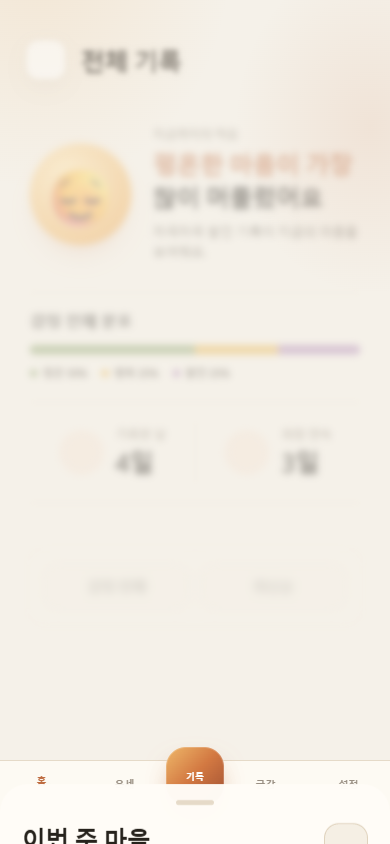
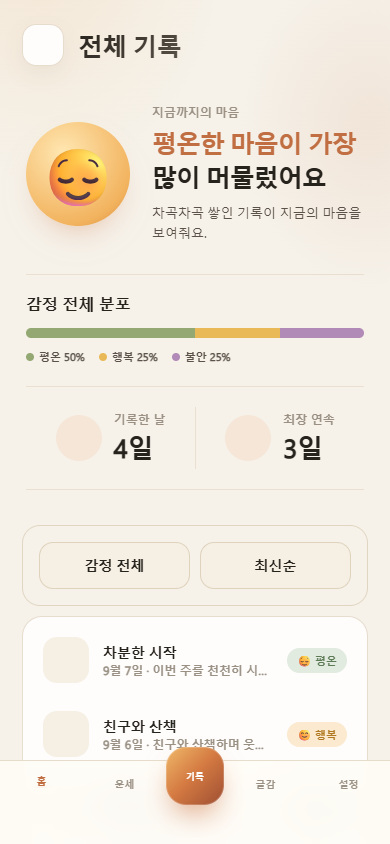
Stabilize prompt refresh animations and weekly stats sheet

diff --git a/prompt-animations.js b/prompt-animations.js
@@ -1,155 +1,69 @@
-/**
- * Prompt refresh motion — react-bits FadeContent + BlurText patterns (vanilla WAAPI).
- */
-
+/** Refresh recommendations while keeping the unchanged analysis text in place. */
 import { getAnimations } from "./animations.js";
 
 const PROMPT_PARTS = ".match, .prompt-emoji, h3, p";
 const EASE_OUT = "cubic-bezier(0.4, 0, 0.2, 1)";
 const EASE_SPRING = "cubic-bezier(0.22, 1, 0.36, 1)";
 
-function promptAnim() {
-  return getAnimations().promptRefresh || {};
-}
-
-function prefersReducedMotion() {
-  return window.matchMedia("(prefers-reduced-motion: reduce)").matches;
-}
-
-function runAnim(el, keyframes, options) {
-  if (!el || prefersReducedMotion()) return Promise.resolve();
-  const anim = el.animate(keyframes, options);
-  return anim.finished.catch(() => {});
-}
-
-function animatePromptParts(parts, keyframes, baseDelay, stagger) {
-  const cfg = promptAnim();
-  const isExit = keyframes.length === 2 && keyframes[1].opacity === 0;
-  return Promise.all(
-    [...parts].map((el, i) =>
-      runAnim(el, keyframes, {
-        duration: isExit ? (cfg.exitDurationMs ?? 340) : (cfg.enterDurationMs ?? 520),
-        delay: baseDelay + i * stagger,
-        easing: isExit ? EASE_OUT : EASE_SPRING,
-        fill: "forwards",
-      })
-    )
-  );
-}
-
-/**
- * Fade out (blur + slide up) → update content → fade in (blur resolve + stagger).
- */
 export async function animatePromptRefresh(updateContent) {
-  const cfg = promptAnim();
+  const cfg = getAnimations().promptRefresh || {};
   const cards = [...document.querySelectorAll(".prompt-slot")];
-  const meta = document.getElementById("prompt-meta");
   const refreshBtn = document.getElementById("prompt-refresh-btn");
-  const blurExit = cfg.blurExitPx ?? 10;
-  const blurMetaExit = cfg.blurMetaExitPx ?? 6;
-  const blurEnter = cfg.blurEnterPx ?? 10;
-  const blurEnterMid = cfg.blurEnterMidPx ?? 4;
-  const blurMetaEnter = cfg.blurMetaEnterPx ?? 8;
-  const tyExit = cfg.translateExitPx ?? 14;
-  const tyMetaExit = cfg.translateMetaExitPx ?? 6;
-  const tyEnter = cfg.translateEnterPx ?? 18;
-  const tyMetaEnter = cfg.translateMetaEnterPx ?? 10;
+  const animations = [];
+  const savedHeights = cards.map(card => card.style.minHeight);
+  const reducedMotion = window.matchMedia("(prefers-reduced-motion: reduce)").matches;
 
-  if (prefersReducedMotion()) {
-    updateContent();
-    return;
-  }
-
-  if (refreshBtn) {
-    refreshBtn.classList.add("is-refreshing");
-    refreshBtn.disabled = true;
-  }
-
-  cards.forEach((card) => card.classList.add("prompt-animating"));
-
-  await Promise.all(
-    cards.map((card, cardIndex) => {
-      const parts = card.querySelectorAll(PROMPT_PARTS);
-      return animatePromptParts(
-        parts,
-        [
-          { opacity: 1, filter: "blur(0px)", transform: "translateY(0) scale(1)" },
-          { opacity: 0, filter: `blur(${blurExit}px)`, transform: `translateY(-${tyExit}px) scale(0.97)` },
-        ],
-        cardIndex * (cfg.cardStaggerMs ?? 55),
-        cfg.partStaggerMs ?? 35
-      );
-    })
-  );
-
-  if (meta) {
-    await runAnim(
-      meta,
-      [
-        { opacity: 1, filter: "blur(0px)", transform: "translateY(0)" },
-        { opacity: 0, filter: `blur(${blurMetaExit}px)`, transform: `translateY(-${tyMetaExit}px)` },
-      ],
-      { duration: cfg.metaExitDurationMs ?? 220, easing: EASE_OUT, fill: "forwards" }
-    );
-  }
-
-  updateContent();
-
-  cards.forEach((card) => {
-    const parts = card.querySelectorAll(PROMPT_PARTS);
-    parts.forEach((el) => {
-      el.style.opacity = "0";
-      el.style.filter = `blur(${blurEnter}px)`;
-      el.style.transform = `translateY(${tyEnter}px)`;
-    });
-  });
-
-  if (meta) {
-    meta.style.opacity = "0";
-    meta.style.filter = `blur(${blurMetaEnter}px)`;
-    meta.style.transform = `translateY(${tyMetaEnter}px)`;
-  }
-
-  await Promise.all(
-    cards.map((card, cardIndex) => {
-      const parts = card.querySelectorAll(PROMPT_PARTS);
-      return animatePromptParts(
-        parts,
-        [
-          { opacity: 0, filter: `blur(${blurEnter}px)`, transform: `translateY(${tyEnter}px) scale(0.98)` },
-          { opacity: 0.55, filter: `blur(${blurEnterMid}px)`, transform: `translateY(6px) scale(0.99)` },
-          { opacity: 1, filter: "blur(0px)", transform: "translateY(0) scale(1)" },
-        ],
-        cardIndex * (cfg.cardEnterDelayMs ?? 90),
-        cfg.cardEnterPartStaggerMs ?? 45
-      ).then(() => {
-        parts.forEach((el) => {
-          el.style.opacity = "";
-          el.style.filter = "";
-          el.style.transform = "";
-        });
+  const animateParts = (keyframes, entering) => Promise.all(cards.flatMap((card, cardIndex) =>
+    [...card.querySelectorAll(PROMPT_PARTS)].map((element, partIndex) => {
+      const animation = element.animate(keyframes, {
+        duration: entering ? (cfg.enterDurationMs ?? 520) : (cfg.exitDurationMs ?? 340),
+        delay: entering
+          ? cardIndex * (cfg.cardEnterDelayMs ?? 90) + partIndex * (cfg.cardEnterPartStaggerMs ?? 45)
+          : cardIndex * (cfg.cardStaggerMs ?? 55) + partIndex * (cfg.partStaggerMs ?? 35),
+        easing: entering ? EASE_SPRING : EASE_OUT,
+        // Hold the first frame during stagger delays and the final frame until cleanup.
+        fill: "both",
       });
+      animations.push(animation);
+      return animation.finished.catch(() => {});
     })
-  );
-
-  if (meta) {
-    await runAnim(
-      meta,
-      [
-        { opacity: 0, filter: `blur(${blurMetaEnter}px)`, transform: `translateY(${tyMetaEnter}px)` },
-        { opacity: 1, filter: "blur(0px)", transform: "translateY(0)" },
-      ],
-      { duration: cfg.metaEnterDurationMs ?? 420, easing: EASE_SPRING, fill: "forwards" }
-    );
-    meta.style.opacity = "";
-    meta.style.filter = "";
-    meta.style.transform = "";
-  }
-
-  cards.forEach((card) => card.classList.remove("prompt-animating"));
+  ));
 
   if (refreshBtn) {
-    refreshBtn.classList.remove("is-refreshing");
-    refreshBtn.disabled = false;
+    refreshBtn.disabled = true;
+    refreshBtn.classList.add("is-refreshing");
+  }
+  try {
+    if (reducedMotion) {
+      updateContent();
+      return;
+    }
+    cards.forEach(card => {
+      card.style.minHeight = `${card.getBoundingClientRect().height}px`;
+      card.classList.add("prompt-animating");
+    });
+    await animateParts([
+      { opacity: 1, filter: "blur(0px)", transform: "translateY(0) scale(1)" },
+      { opacity: 0, filter: `blur(${cfg.blurExitPx ?? 10}px)`, transform: `translateY(-${cfg.translateExitPx ?? 14}px) scale(0.97)` },
+    ], false);
+
+    updateContent();
+
+    await animateParts([
+      { opacity: 0, filter: `blur(${cfg.blurEnterPx ?? 10}px)`, transform: `translateY(${cfg.translateEnterPx ?? 18}px) scale(0.98)` },
+      { opacity: 0.55, filter: `blur(${cfg.blurEnterMidPx ?? 4}px)`, transform: "translateY(6px) scale(0.99)" },
+      { opacity: 1, filter: "blur(0px)", transform: "translateY(0) scale(1)" },
+    ], true);
+  } finally {
+    // Release only animations owned by this refresh, including on a rendering failure.
+    animations.forEach(animation => animation.cancel());
+    cards.forEach((card, index) => {
+      card.style.minHeight = savedHeights[index];
+      card.classList.remove("prompt-animating");
+    });
+    if (refreshBtn) {
+      refreshBtn.disabled = false;
+      refreshBtn.classList.remove("is-refreshing");
+    }
   }
 }

diff --git a/tests/browser/home-stats.spec.ts b/tests/browser/home-stats.spec.ts
@@ -69,6 +69,39 @@ async function setup(page: Page, fixture = buildRecords()) {
   await expect(page.locator("#splash-root")).toHaveCount(0, { timeout: 5000 });
 }
 
+test("prompt refresh keeps analysis steady and releases finished animations", async ({ page }) => {
+  await page.setViewportSize({ width: 390, height: 844 });
+  await setup(page);
+  await page.locator('.bottom-nav [data-page="prompts"]').click();
+  await page.locator('#page-prompts').evaluate(async element => {
+    await Promise.all(element.getAnimations({subtree:true}).map(animation => animation.finished.catch(() => {})));
+  });
+  const meta = page.locator('#prompt-meta');
+  const before = await meta.textContent();
+  const refresh = page.locator('#prompt-refresh-btn');
+  await refresh.click();
+  await expect(refresh).toBeDisabled();
+  const samples = await meta.evaluate(async element => {
+    const samples = [];
+    for (let i = 0; i < 25; i++) {
+      const style = getComputedStyle(element);
+      samples.push({ opacity: Number(style.opacity), filter: style.filter, top: element.getBoundingClientRect().top });
+      await new Promise(resolve => setTimeout(resolve, 100));
+    }
+    return samples;
+  });
+  console.log('Prompt analysis motion', JSON.stringify({minOpacity:Math.min(...samples.map(s=>s.opacity)), maxDrift:Math.max(...samples.map(s=>s.top))-Math.min(...samples.map(s=>s.top))}));
+  await expect(refresh).toBeEnabled();
+  await expect(meta).toHaveText(before!);
+  expect(Math.min(...samples.map(s => s.opacity))).toBe(1);
+  expect(Math.max(...samples.map(s => s.top)) - Math.min(...samples.map(s => s.top))).toBeLessThan(1);
+  for (let i = 0; i < 2; i++) {
+    await refresh.click();
+    await expect(refresh).toBeEnabled();
+  }
+  expect(await page.locator('.prompt-slot').evaluateAll(cards => cards.reduce((sum, card) => sum + card.getAnimations({subtree:true}).filter(a=>a instanceof Animation && a.effect instanceof KeyframeEffect && !('animationName' in a)).length, 0))).toBe(0);
+});
+
 test("weekly sheet and all-record statistics preserve the complete home flow", async ({ page }) => {
   await page.setViewportSize({ width: 390, height: 844 });
   const reference = new Date();
@@ -86,6 +119,12 @@ test("weekly sheet and all-record statistics preserve the complete home flow", a
   await expect(page.locator("#week-stats-days-written")).toHaveText(`${currentWeekDays}일`);
   await expect(page.locator("#week-stats-next")).toBeDisabled();
   await expect(page.locator("#week-stats-records")).toBeVisible();
+  await expect.poll(() => sheet.evaluate(element => Math.abs(new DOMMatrixReadOnly(getComputedStyle(element).transform).m42))).toBe(0);
+  const corners = await sheet.evaluate(element => {
+    const style = getComputedStyle(element);
+    return [style.borderTopLeftRadius, style.borderTopRightRadius, style.borderBottomLeftRadius, style.borderBottomRightRadius];
+  });
+  expect(corners).toEqual(['28px', '28px', '28px', '28px']);
   const actionsBox = await page.locator(".week-stats-actions").boundingBox();
   const navBox = await page.locator(".bottom-nav").boundingBox();
   expect(actionsBox!.y + actionsBox!.height).toBeLessThanOrEqual(navBox!.y);

diff --git a/app.js b/app.js
@@ -1420,7 +1420,8 @@ function renderPromptRecommendations() {
     card.querySelector("p").textContent = prompt.desc;
   });
   const meta = document.getElementById("prompt-meta");
-  if (meta) meta.innerHTML = formatPromptMeta(analysis);
+  const metaHtml = formatPromptMeta(analysis);
+  if (meta && meta.innerHTML !== metaHtml) meta.innerHTML = metaHtml;
   const homePrompt = document.getElementById("home-prompt-teaser");
   if (homePrompt && picks[0]) {
     const top = picks[0];

diff --git a/styles.css b/styles.css
@@ -772,6 +772,7 @@ input,textarea,select{font-size:16px}
   transition:transform var(--anim-sheet-panel-duration) var(--ease-sheet),visibility 0s linear 0s;
 }
 .week-stats-sheet{
+  border-radius:28px;
   bottom:calc(84px + env(safe-area-inset-bottom));
   height:min(650px,calc(100% - 112px - env(safe-area-inset-bottom)));
   max-height:none;
